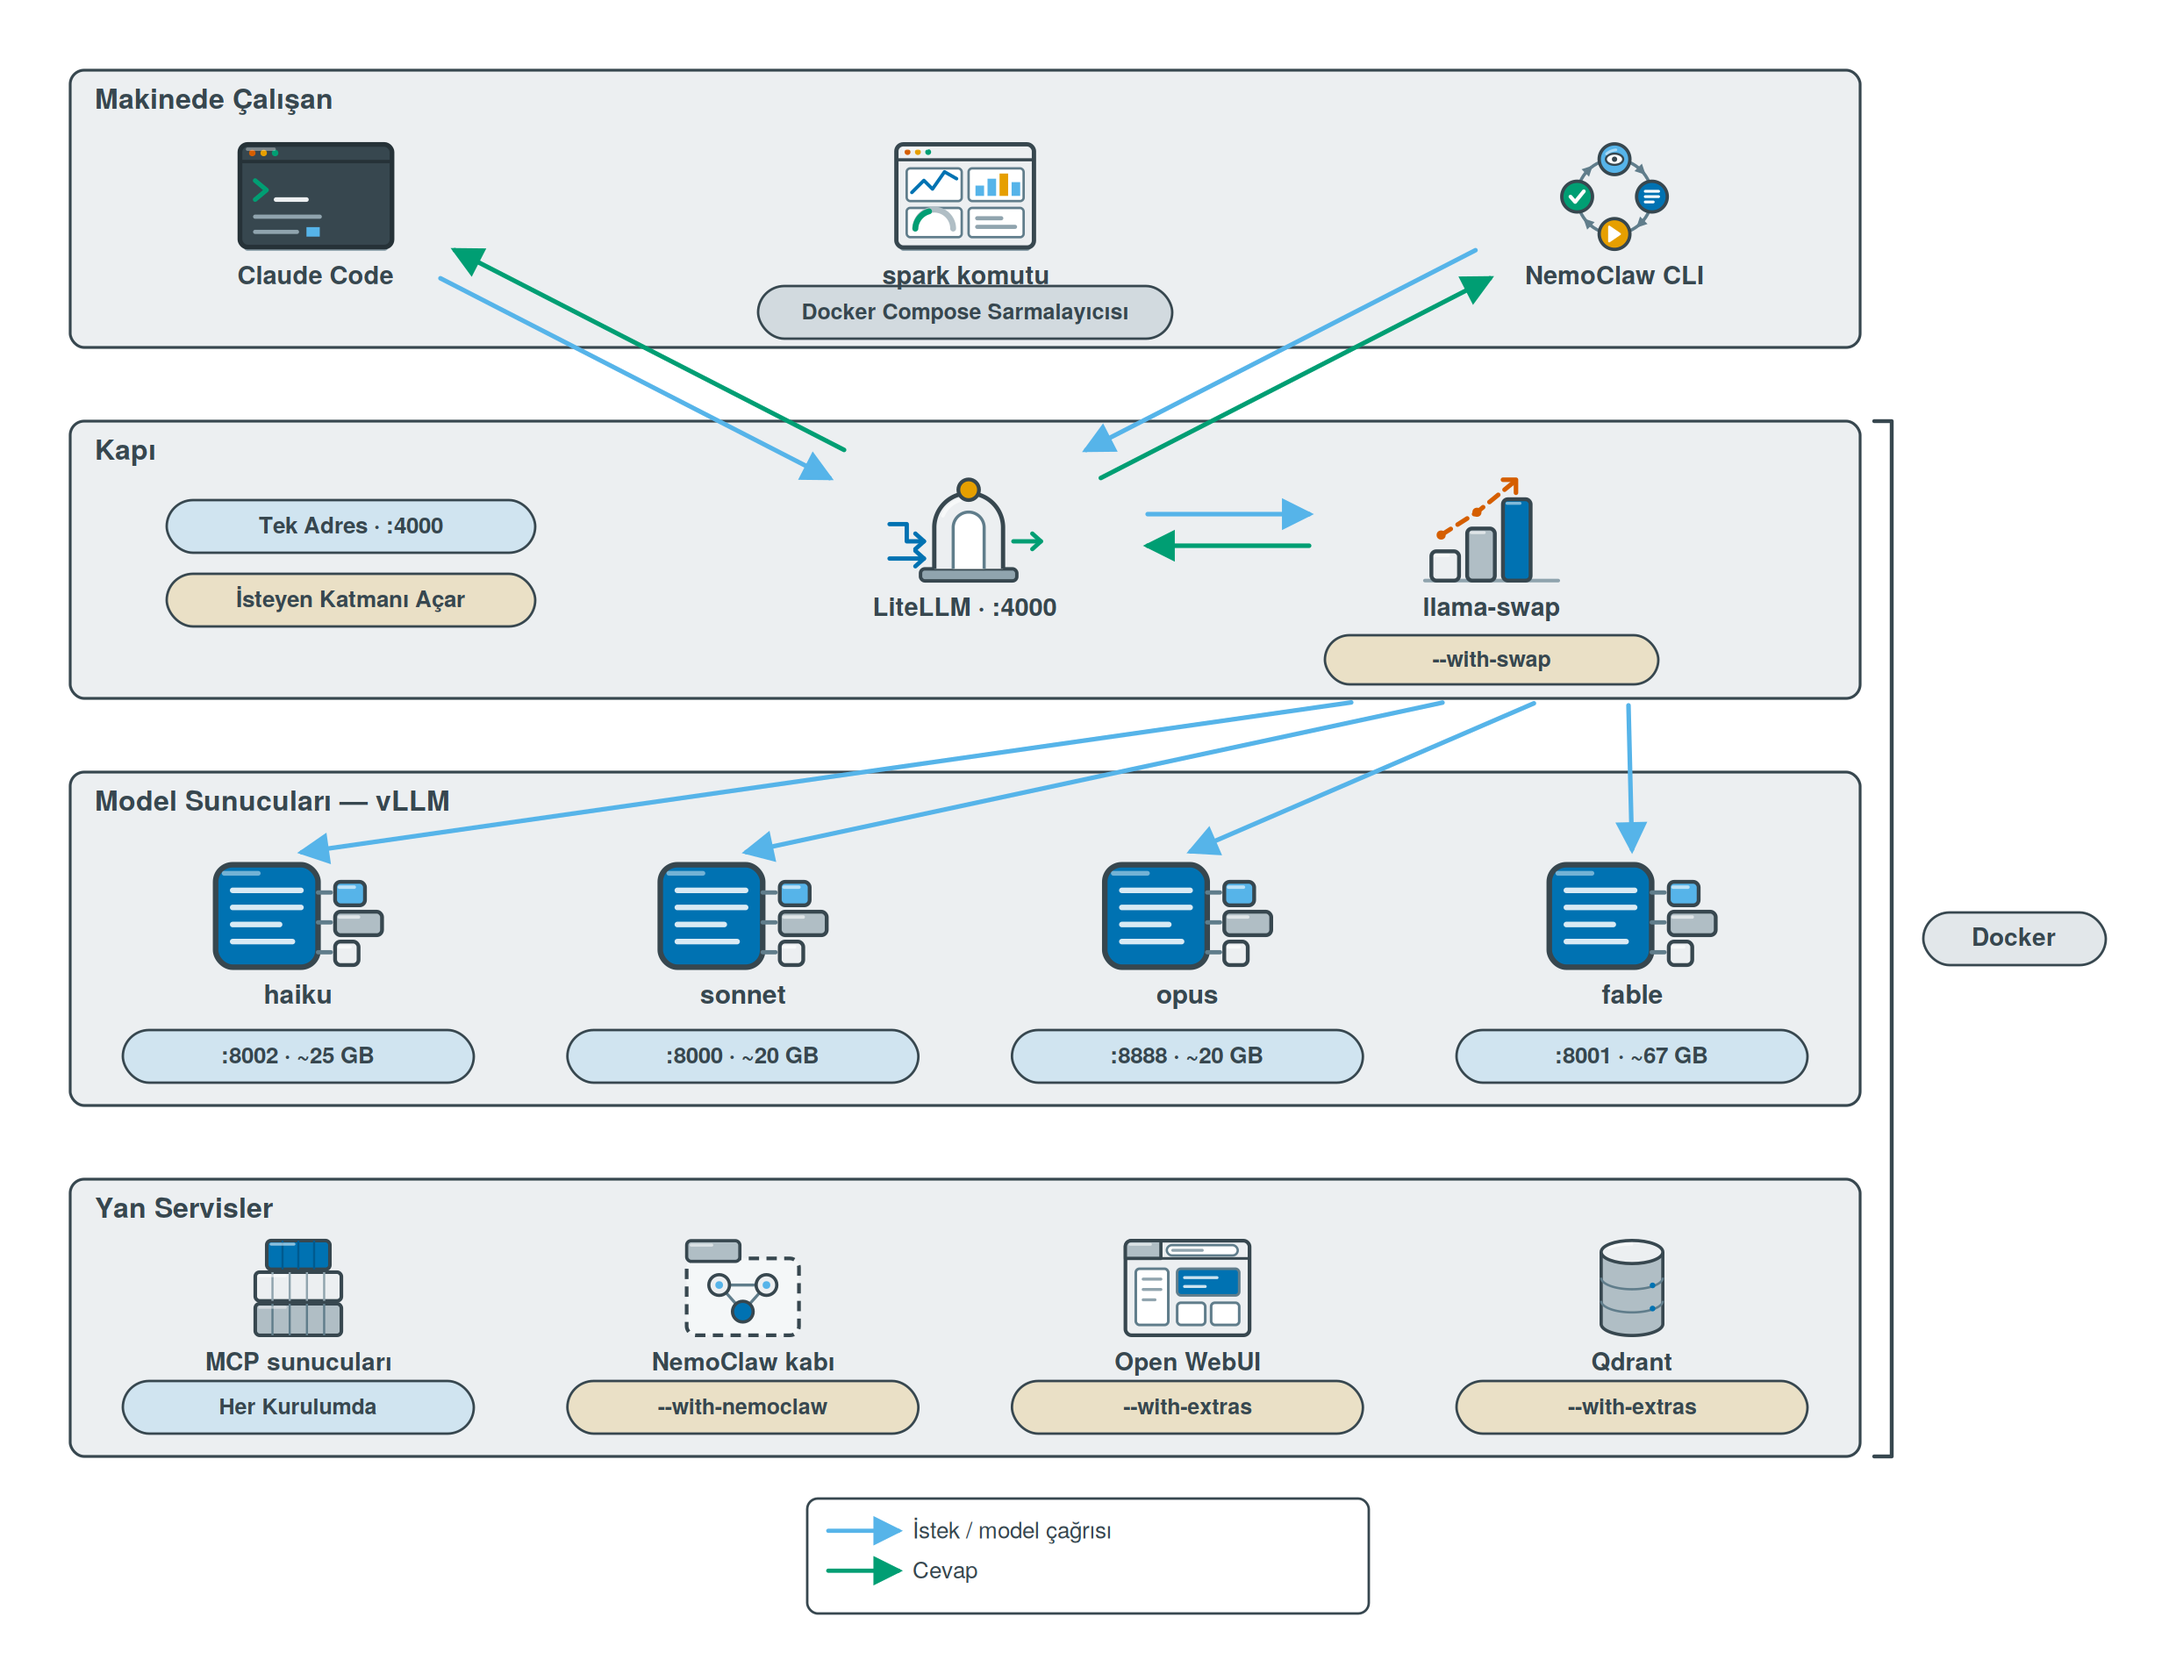
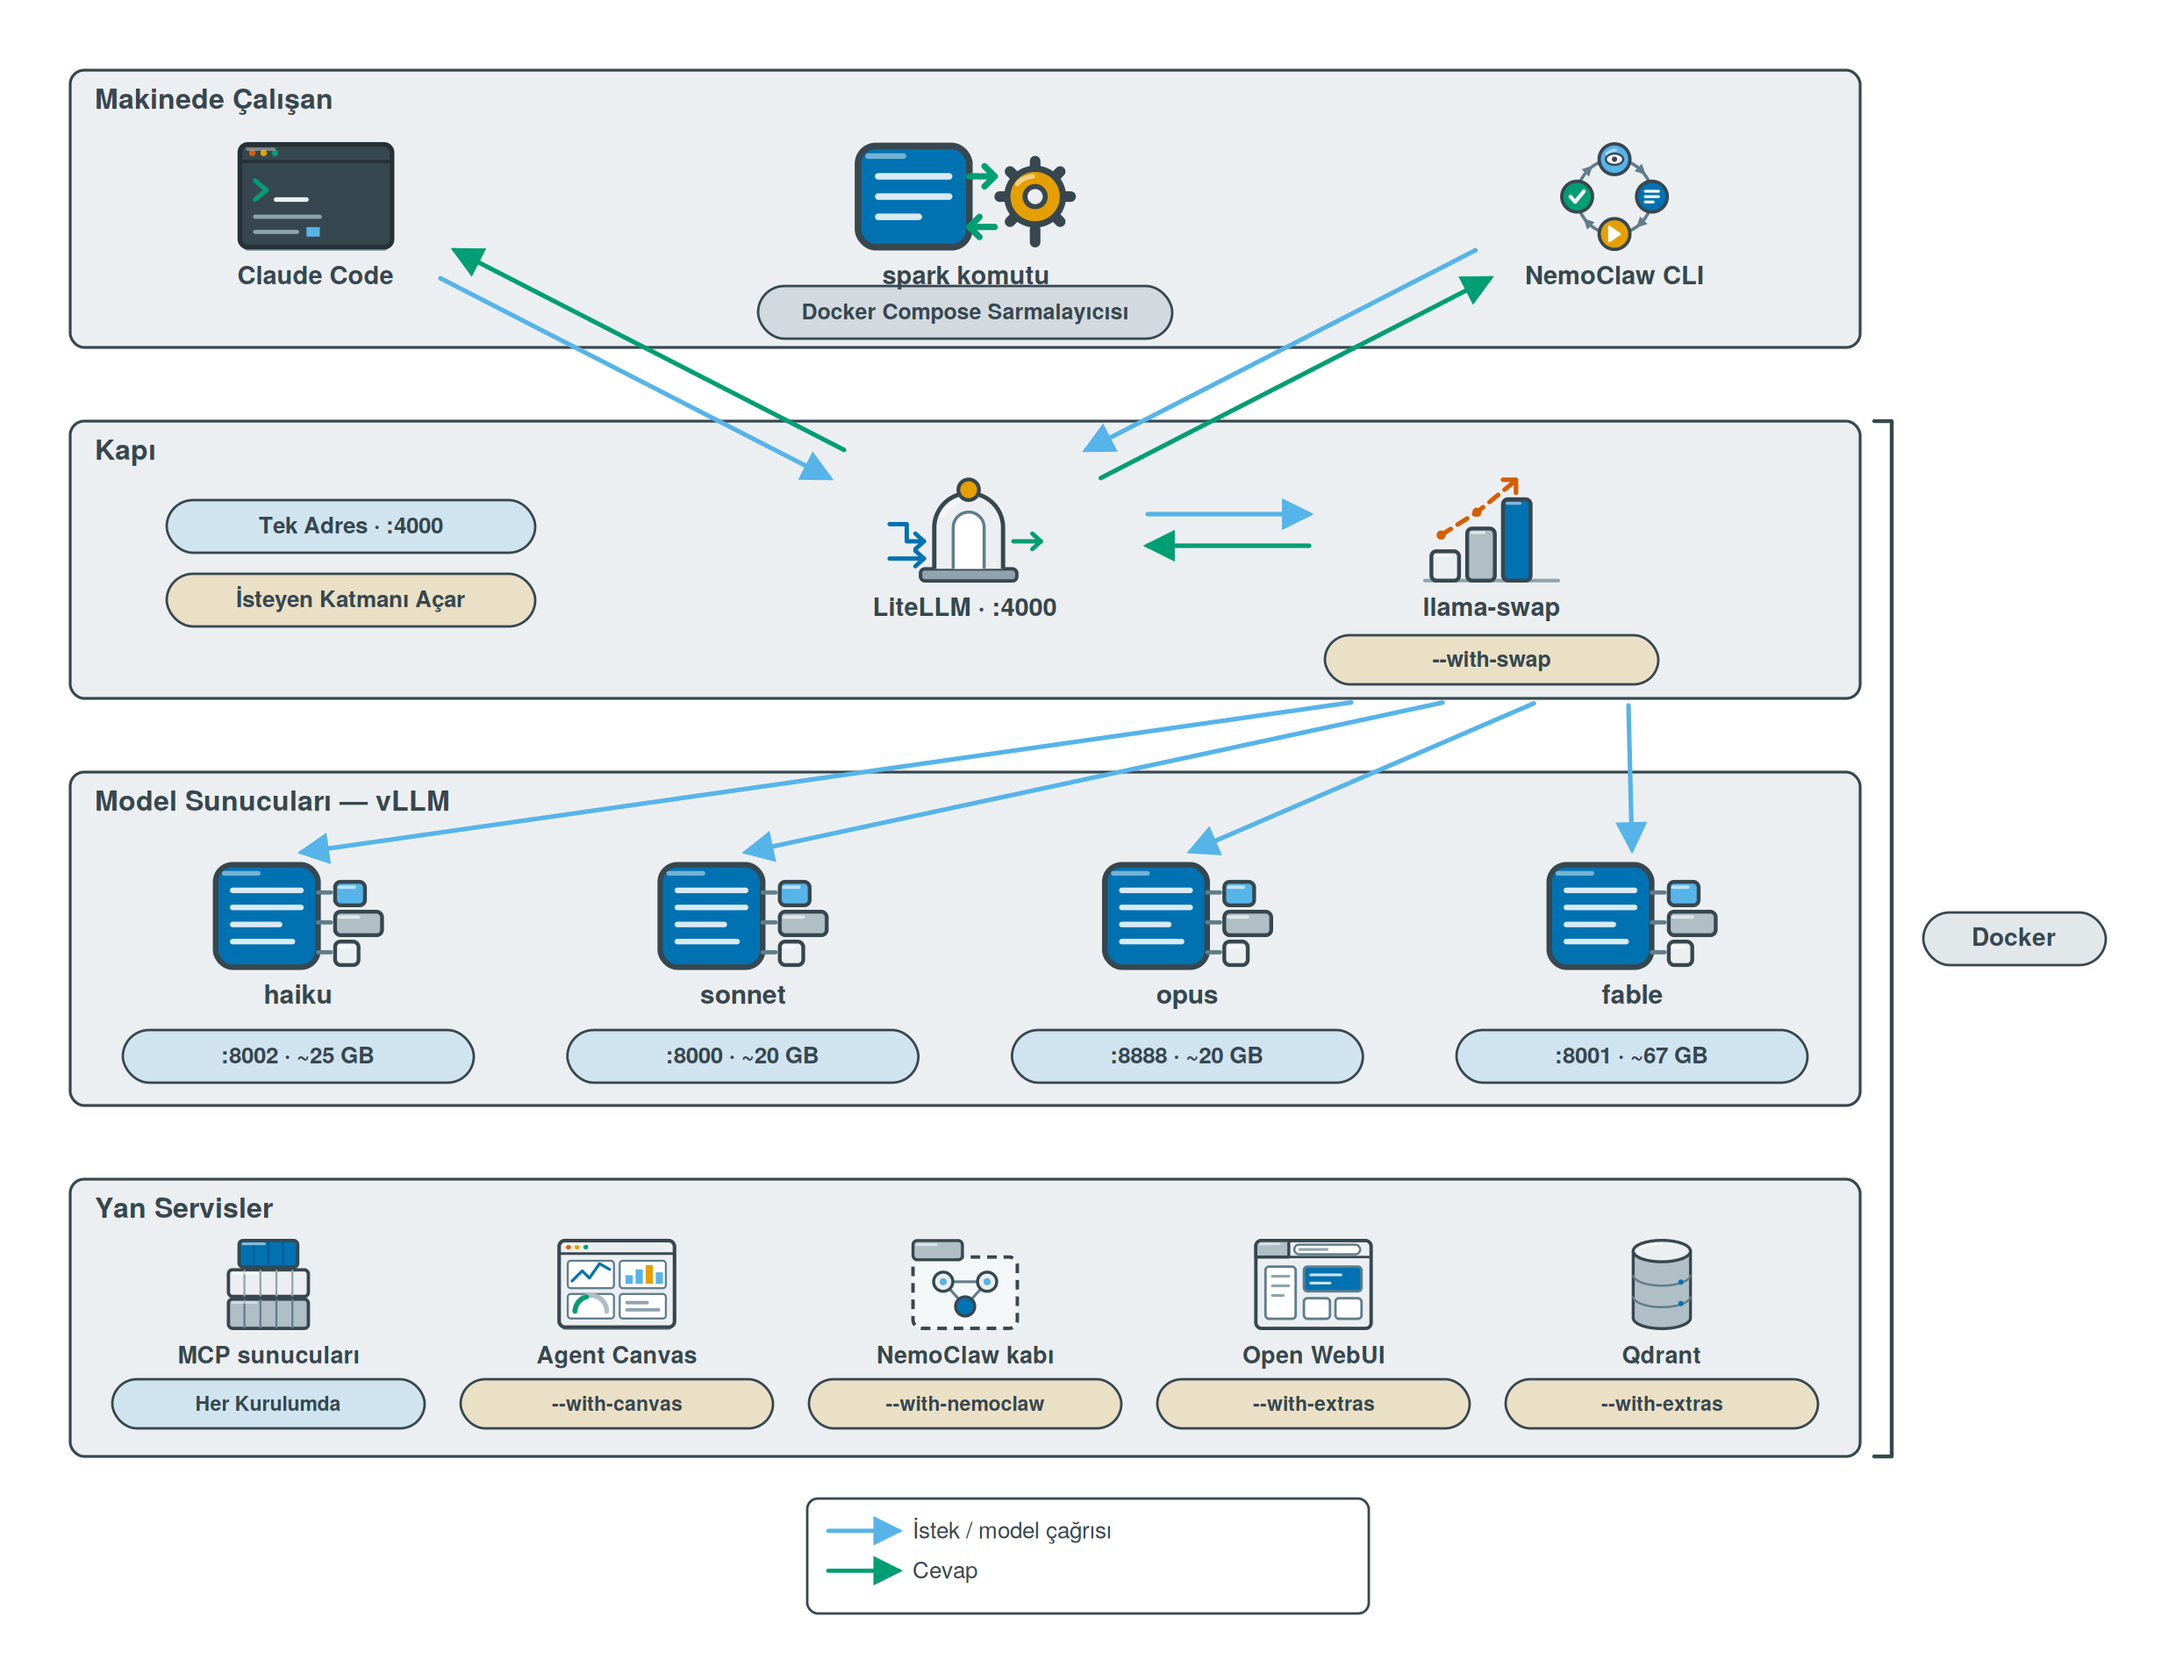
add agent canvas, fix port collisions and wire the knowledge base into agent containers

Changed region(s): [[0.031, 0.7453, 0.8383, 0.8695], [0.3726, 0.0621, 0.4968, 0.1553]]

diff --git a/README.md b/README.md
@@ -83,6 +83,8 @@ bash install.sh --all       # dört katman + eklentiler ~132 GB    50-70 dk
 | `--with-wiki` | Obsidian + claude-obsidian bilgi tabanı |
 | `--with-nemoclaw` | NVIDIA NemoClaw ajan kabı (`--all` içinde) |
 | `--with-swap` | llama-swap: katmanı istek anında aç (`--all` içinde) |
+| `--with-canvas` | Agent Canvas ajan kontrol merkezi (`--all` içinde) |
+| `--projects PATH` | Canvas ajanının göreceği klasör (varsayılan `~/projects`) |
 | `--vault PATH` | Vault yolu (varsayılan `~/vault`) |
 | `--resume` | Yarım kalan kurulumu sürdür |
 | `--status` / `--uninstall` | Durum / kaldırma |
@@ -112,6 +114,8 @@ Son adımda konteynerden `nvidia-smi` çalıştırılarak GPU erişimi fiilen do
 ```bash
 spark status                # servis durumu, bellek, disk
 spark swap                  # llama-swap: hangi katman ayakta
+spark canvas                # Agent Canvas adresi ve ayarları
+spark up canvas             # kontrol merkezini aç
 spark up swap               # llama-swap düzenini aç
 spark up demo               # haiku + sonnet
 spark up daily              # haiku + sonnet + opus
@@ -139,7 +143,31 @@ spark down                  # tümünü durdur
 | Skill'ler | Superpowers (TDD, sistematik hata ayıklama, plan çıkarma) |
 | Bilgi tabanı | Obsidian + claude-obsidian (15 skill) — `--with-wiki` |
 | Ajan kabı | NVIDIA NemoClaw + OpenShell, model yerel kapıdan — `--with-nemoclaw` |
+| Kontrol merkezi | Agent Canvas: konuşmalar, otomasyonlar, ACP alt ajanları — `--with-canvas` |
 | Ekstralar | Open WebUI, Qdrant, Whisper — `--with-extras` |
+
+---
+
+## Portlar
+
+Hepsi varsayılan olarak `127.0.0.1`'e bağlıdır; hiçbiri kurulumdan sonra kendiliğinden ağa açılmaz.
+
+| Port | Servis | Ne zaman açılır | Değiştir |
+|---|---|---|---|
+| `4000` | **LiteLLM kapı** — tek API adresi | her zaman | `GATEWAY_BIND` |
+| `8002` | `haiku` (vLLM) | `demo`, `daily` | — |
+| `8000` | `sonnet` (vLLM) | `demo`, `daily` | — |
+| `8888` | `opus` (vLLM) | `daily` | — |
+| `8001` | `fable` (vLLM) | `fable` | — |
+| `8081` | llama-swap durum ucu | `--with-swap` | `SWAP_PORT` |
+| `8300` | Agent Canvas paneli | `--with-canvas` | `CANVAS_PORT`, `CANVAS_BIND` |
+| `8080` | NemoClaw OpenShell gateway | `--with-nemoclaw` | NemoClaw yönetir |
+| `18789` | NemoClaw paneli | `--with-nemoclaw` | NemoClaw atar |
+| `3000` | Open WebUI | `--with-extras` | `WEBUI_BIND` |
+| `6333` | Qdrant | `--with-extras` | — |
+| `9000` | Whisper | `stt` profili | — |
+
+İki tanesi bilerek kaydırıldı. Agent Canvas kendi içinde 8000 dinler ama o portu `sonnet` kullandığı için dışarı 8300'den açılır. llama-swap da 8080 yerine 8081'e alındı, çünkü 8080 NemoClaw'ın OpenShell gateway'inin varsayılanı — `--all` ile ikisi birden kurulduğunda çakışırlardı.
 
 ---
 
@@ -207,6 +235,31 @@ LITELLM_KEY=<uzun-bir-anahtar>
 `spark up daily` ile yeniden başlatılır. İstemci tarafında: OpenAI uyumlu uç `http://<spark-ip>:4000/v1`, model adı `opus`. Claude Code için `ANTHROPIC_BASE_URL=http://<spark-ip>:4000`.
 
 Ofis dışı erişim için Tailscale önerilir — port açmayı ve sabit IP'yi gerektirmez.
+
+---
+
+## Agent Canvas — ajan kontrol merkezi
+
+`--with-canvas` (ya da `--all`) ile [Agent Canvas](https://github.com/OpenHands/OpenHands) kurulur: konuşmalar, dosyalar, terminal, model ayarları ve otomasyonlar tek panelden yönetilir. Otomasyonlar webhook ve zamanlayıcıyla tetiklenir — PR incelemesi, depo gözcüsü gibi işleri buraya kurarsın.
+
+```bash
+spark up canvas    # aç
+spark canvas       # adres, panel anahtarı, girilecek ayarlar
+```
+
+Panel `http://localhost:8300/canvas` adresinde (kendi portu 8000 ama onu `sonnet` kullanıyor).
+
+**Ajan kabın içinde koşar**, makinenin dosya sistemini görmez; yalnızca `/projects` altına bağladığımız klasörü görür (varsayılan `~/projects`, `--projects PATH` ile değiştirilir). `docker.sock` gerekmez, `--privileged` gerekmez.
+
+**Claude Code'u alt ajan yapabilirsin.** Settings → Agent → Preset: Claude Code. Sarmalayıcı imajın içinde hazır; kap zaten bizim kapıya bakacak şekilde kurulu:
+
+```
+Agent Canvas  →  Claude Code (ACP)  →  LiteLLM :4000  →  yerel katman
+```
+
+İki not. Model ayarı **env değişkeniyle yapılamıyor** — ilk açılışta Settings → LLM'e bir kez elle girilir (`spark canvas` tam olarak ne yazacağını gösterir): Model `litellm_proxy/opus`, Base URL `http://litellm:4000`, API Key `.env` içindeki `LITELLM_KEY`. İkincisi, Claude aboneliğinin OAuth token'ı bu kuruluma **verilmez**: üst akış belgeleri, `ANTHROPIC_BASE_URL` ile birlikte kullanıldığında token'ın kimlik doğrulamasının bozulduğunu söylüyor. Ya abonelik ya yerel kapı; burada tercih yerel kapı.
+
+Ayrıntılı tasarım ve ajan rolleri: **[docs/MIMARI.md](docs/MIMARI.md)**
 
 ---
 
@@ -278,6 +331,7 @@ Temel kurulum oturduktan sonra değerlendirilebilecek bileşenler:
 | vLLM (GB10 derlemesi) | `ghcr.io/aeon-7/aeon-vllm-ultimate` |
 | LiteLLM | `ghcr.io/berriai/litellm` |
 | llama-swap | `ghcr.io/mostlygeek/llama-swap` (`unified-cuda13`, arm64) |
+| Agent Canvas | `ghcr.io/openhands/agent-canvas` (`1.19.0`, arm64) |
 | MCP sunucuları | `mcp/*` Docker kataloğu |
 | Skill kütüphanesi | `obra/superpowers` |
 | Bilgi tabanı | `AgriciDaniel/claude-obsidian` |

diff --git a/SETUP.md b/SETUP.md
@@ -142,6 +142,7 @@ bash install.sh --with-wiki --resume       # Obsidian + bilgi tabanı
 bash install.sh --with-extras --resume     # Open WebUI + Qdrant + Whisper
 bash install.sh --with-nemoclaw --resume   # NemoClaw ajan kabı
 bash install.sh --with-swap --resume       # llama-swap ile talep-güdümlü katman
+bash install.sh --with-canvas --resume     # Agent Canvas kontrol merkezi
 ```
 
 ---
@@ -163,6 +164,31 @@ Kurulum sonunda ana katman bir kez ısıtılır. Soğuk bir katmana ilk geçişt
 Ayarlar `/srv/ai/compose/.env` içinde: `SWAP_TTL` (boşta düşme süresi), `SWAP_TTL_FABLE` gibi katman başına süreler, `SWAP_HEALTH_TIMEOUT` (ilk açılış payı), `SWAP_BIND`.
 
 Düzeni geri almak için `--no-swap` ile yeniden kur; kapı yeniden katmanlara doğrudan bakar.
+
+---
+
+## Agent Canvas — ajan kontrol merkezi
+
+`--with-canvas` (veya `--all`) ile kurulur. Konuşmalar, dosyalar, terminal ve otomasyonlar tek panelden yönetilir; ajan kabın içinde koşar ve yalnızca `/projects` altına bağladığın klasörü görür.
+
+```bash
+spark up canvas               # aç
+spark canvas                  # adres, panel anahtarı, girilecek ayarlar
+```
+
+Panel: `http://localhost:8300/canvas` — kendi portu 8000 ama onu `sonnet` kullandığı için 8300'e taşındı.
+
+İlk açılışta **Settings → LLM** bir kez elle doldurulur (bu ayar env değişkeniyle yapılamıyor):
+
+| Alan | Değer |
+|---|---|
+| Model | `litellm_proxy/opus` |
+| Base URL | `http://litellm:4000` |
+| API Key | `.env` içindeki `LITELLM_KEY` |
+
+Claude Code'u alt ajan olarak çalıştırmak için **Settings → Agent → Preset: Claude Code**. Kap zaten yerel kapıya bakacak şekilde kurulu (`ANTHROPIC_BASE_URL`). Claude aboneliğinin OAuth token'ını buraya girme — base URL ile birlikte çalışmıyor.
+
+Proje klasörünü değiştirmek için `--projects ~/kod`.
 
 ---
 
@@ -218,6 +244,8 @@ Mevcut bir Obsidian vault'un varsa script `adopt` akışını kullanır ve içer
 | Servis açılmıyor | `spark logs <katman>` |
 | `/model fable` dedim, Claude Code zaman aşımına düştü | Soğuk açılış 3-4 dk. Önce `spark ask "merhaba" fable` ile ısıt, sonra geç. |
 | `spark swap` "llama-swap çalışmıyor" diyor | `spark up swap`; hâlâ olmuyorsa `spark logs llamaswap` |
+| Agent Canvas açılıyor ama model cevap vermiyor | Settings → LLM bir kez elle girilmeli; `spark canvas` ne yazacağını gösterir |
+| Canvas logunda `permission denied` (.openhands) | `.env` içindeki `CANVAS_UID`/`CANVAS_GID` seninkiyle eşleşmiyor: `id -u`, `id -g` ile bak, düzelt, `spark up canvas` |
 | llama-swap logunda `permission denied` (docker.sock) | `.env` içindeki `DOCKER_GID` host'un docker grubuyla eşleşmiyor: `getent group docker` ile bak, düzelt, `spark up swap` |
 | Katman açılmıyor, llama-swap `health check timed out` diyor | `.env` içinde `SWAP_HEALTH_TIMEOUT` değerini artır (varsayılan 2100 sn), `spark up swap` |
 | `nemoclaw` komutu bulunamıyor | Kurulum onu `~/.local/bin` altına koyar; yeni terminal aç ya da `export PATH="$HOME/.local/bin:$PATH"` |
